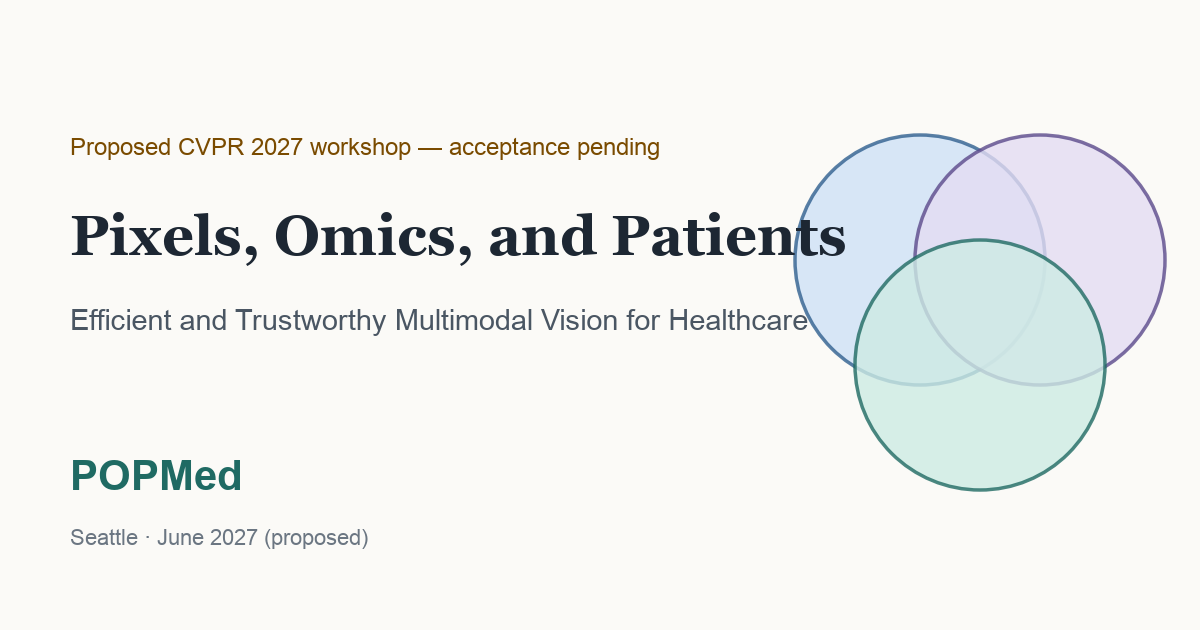
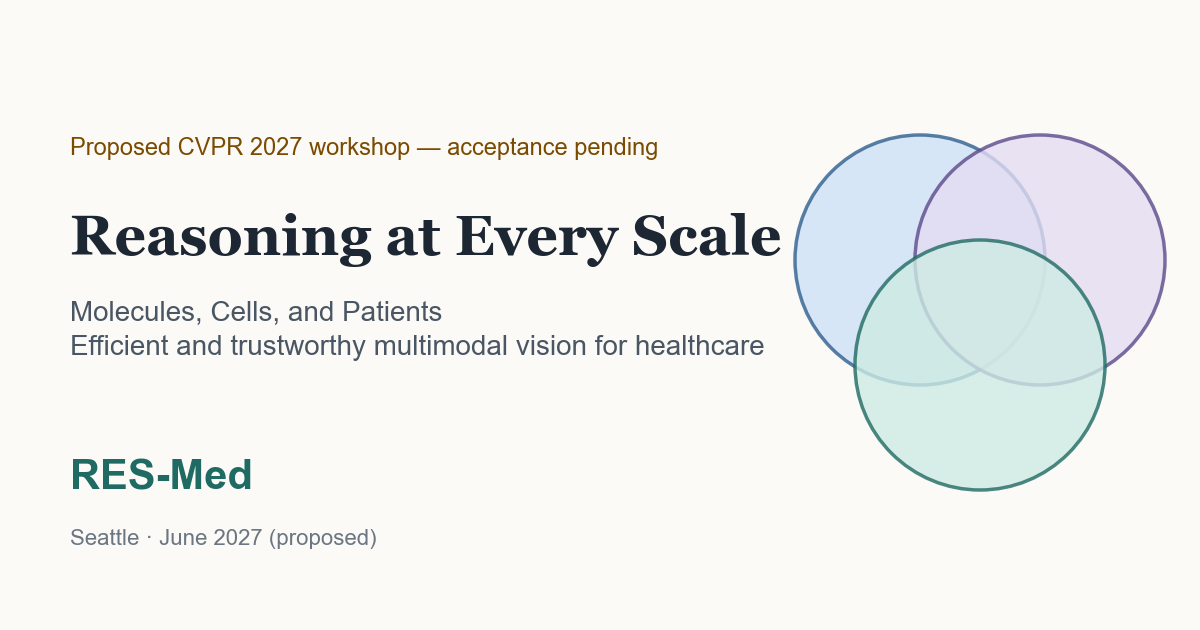
Rename to RES-Med: Reasoning at Every Scale

diff --git a/index.html b/index.html
@@ -4,9 +4,9 @@
 <head>
 <meta charset="utf-8">
 <meta name="viewport" content="width=device-width, initial-scale=1">
-<title>POPMed: Pixels, Omics, and Patients (proposed CVPR 2027 workshop)</title>
-<meta name="description" content="POPMed is a proposed CVPR 2027 workshop on efficient and trustworthy multimodal vision for healthcare, covering medical imaging with molecular data and patient signals under computational and reliability constraints. Acceptance is pending.">
-<meta property="og:title" content="POPMed: Pixels, Omics, and Patients">
+<title>RES-Med: Reasoning at Every Scale (proposed CVPR 2027 workshop)</title>
+<meta name="description" content="RES-Med is a proposed CVPR 2027 workshop on efficient and trustworthy multimodal vision for healthcare, covering medical imaging with molecular data and patient signals under computational and reliability constraints. Acceptance is pending.">
+<meta property="og:title" content="RES-Med: Reasoning at Every Scale">
 <meta property="og:description" content="Proposed CVPR 2027 workshop (acceptance pending): efficient and trustworthy multimodal vision for healthcare.">
 <meta property="og:type" content="website">
 <meta property="og:image" content="assets/og-card.png">
@@ -21,7 +21,7 @@
 
 <header class="site">
   <div class="wrap">
-    <a class="brand" href="#top" aria-label="POPMed home">POP<span>Med</span></a>
+    <a class="brand" href="#top" aria-label="RES-Med home">RES<span>-Med</span></a>
     <button class="menu-btn" aria-expanded="false" aria-controls="nav">Menu</button>
     <nav class="main" id="nav" aria-label="Sections">
       <ul>
@@ -43,9 +43,9 @@
 <div class="hero" id="top">
   <div class="wrap">
     <p class="status" role="status">Proposed CVPR 2027 workshop: acceptance pending</p>
-    <h1>Pixels, Omics, and Patients</h1>
+    <h1>Reasoning at Every Scale: Molecules, Cells, and Patients</h1>
     <p class="sub">Efficient and Trustworthy Multimodal Vision for Healthcare</p>
-    <p class="lede">Medical images are increasingly analyzed together with molecular data and patient signals. POPMed will ask how to build vision-centered multimodal models that remain accurate, computationally tractable, and reliable when modalities are missing, labels are scarce, hospitals differ, and hardware is limited.</p>
+    <p class="lede">Medical images are increasingly analyzed together with molecular data and patient signals. RES-Med will ask how to build vision-centered multimodal models that remain accurate, computationally tractable, and reliable when modalities are missing, labels are scarce, hospitals differ, and hardware is limited.</p>
     <div class="meta">
       <span><b>Proposed for:</b> CVPR 2027 workshops, June 20–21, 2027</span>
       <span><b>Venue:</b> Seattle, USA (with the main conference)</span>
@@ -64,7 +64,7 @@
     <div>
       <h2 id="about-h">Why this workshop</h2>
       <p>Segmentation masks are used as inputs to risk models, histology images are paired with gene expression profiles, atomic force microscopy (AFM) maps the mechanics of single cells, and medical images are interpreted alongside wearable signals and health records. In our analysis of recent CVPR, WACV, ICCV, and ECCV papers, only 18% of biomedical vision abstracts mention computational efficiency, and 21% mention generalization, calibration, or fairness.</p>
-      <p>POPMed will bring together researchers from three communities: <strong>efficient medical vision</strong>, <strong>imaging–omics representation learning</strong>, and <strong>digital health</strong>. We will ask every contribution to report <em>accuracy</em>, <em>computational requirements</em>, and <em>reliability</em> together, which we call the joint reporting standard.</p>
+      <p>RES-Med will bring together researchers from three communities: <strong>efficient medical vision</strong>, <strong>imaging–omics representation learning</strong>, and <strong>digital health</strong>. We will ask every contribution to report <em>accuracy</em>, <em>computational requirements</em>, and <em>reliability</em> together, which we call the joint reporting standard.</p>
       <p><strong>Why a vision workshop?</strong> Every contribution will use images, video, volumes, or slides as a primary input or output; other modalities add context to a visual task rather than replace it.</p>
     </div>
     <div>
@@ -297,8 +297,8 @@
     </div>
     <div id="contact">
       <h2>Contact</h2>
-      <p>Questions about the proposal: <a href="mailto:tirtho@iastate.edu?subject=POPMed%20CVPR%202027%20workshop">tirtho@iastate.edu</a> (Tirtho Roy, coordinating organizer).</p>
-      <p class="kicker">The POPMed site describes a workshop proposal and is not affiliated with or endorsed by CVPR, IEEE, or the Computer Vision Foundation.</p>
+      <p>Questions about the proposal: <a href="mailto:tirtho@iastate.edu?subject=RES-Med%20CVPR%202027%20workshop">tirtho@iastate.edu</a> (Tirtho Roy, coordinating organizer).</p>
+      <p class="kicker">The RES-Med site describes a workshop proposal and is not affiliated with or endorsed by CVPR, IEEE, or the Computer Vision Foundation.</p>
     </div>
   </div>
 </section>

diff --git a/README.md b/README.md
@@ -1,7 +1,7 @@
-# POPMed workshop website
+# RES-Med workshop website
 
-Static site for **Pixels, Omics, and Patients: Efficient and Trustworthy
-Multimodal Vision for Healthcare (POPMed)**, a *proposed* CVPR 2027 workshop.
+Static site for **Reasoning at Every Scale: Molecules, Cells, and Patients
+(RES-Med)**, a *proposed* CVPR 2027 workshop.
 **Acceptance is pending**, and the site must say so until CVPR accepts the workshop.
 
 The site has no build step, no JavaScript library, and no external dependency; it consists of `index.html`, `assets/style.css`,
